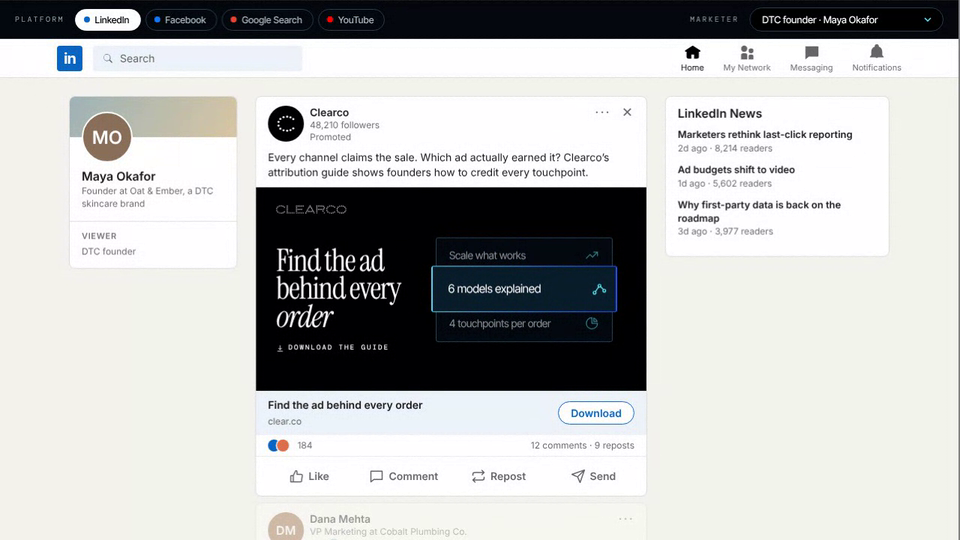
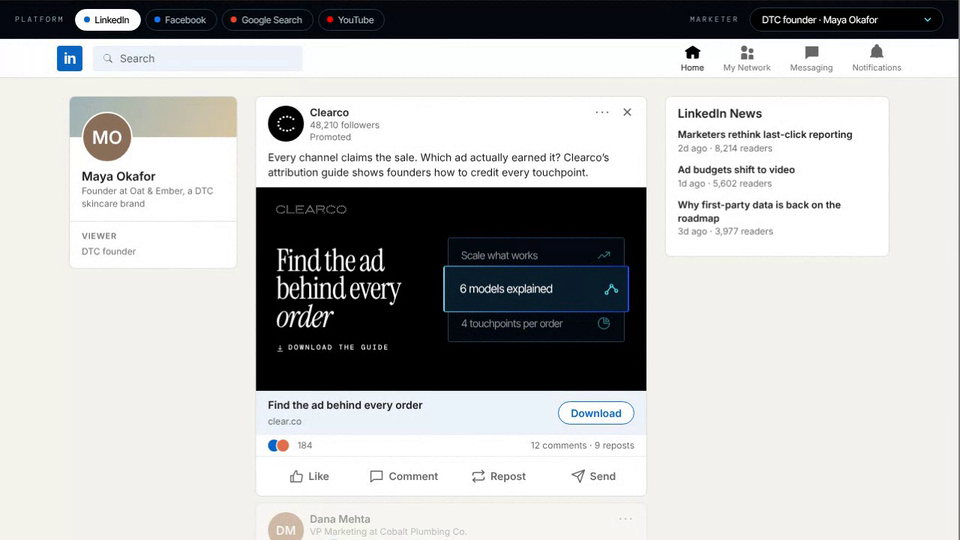
Paid Ad Pipeline: move the LinkedIn rolodex back to the right
Claude-Session: https://claude.ai/code/session_016rpguaETsCiVqR7f54g7FW

Changed region(s): [[0.4375, 0.4444, 0.5938, 0.5926], [0.4688, 0.4444, 0.6562, 0.6222]]

diff --git a/clearco-paid-ad-pipeline/index.html b/clearco-paid-ad-pipeline/index.html
@@ -56,7 +56,7 @@ nav.back span{color:#6e6e6e}nav.back b{font-weight:500;color:#fff;overflow:hidde
 .cr h4{font:400 8cqw/.9 var(--serif);letter-spacing:-.035em;margin:2.4cqw 0 3.4cqw;white-space:nowrap}
 .cr .go{align-self:flex-start;display:inline-flex;align-items:center;gap:1.1cqw;color:#fff;font:500 1.8cqw/1 var(--mono);letter-spacing:.2em;text-transform:uppercase;white-space:nowrap}
 .cr .go svg{width:2cqw;height:2cqw}
-.cr .stage{position:absolute;right:3cqw;top:0;width:50cqw;height:100%;container-type:inline-size}
+.cr .stage{position:absolute;right:0;top:0;width:50cqw;height:100%;container-type:inline-size}
 .cr .stage>*{pointer-events:none}
 /* the three cards as a rolodex: the middle one is the prominent one; each step the bottom card moves up to the middle, the middle to the top, and the top fades out and returns at the bottom. Only transform and opacity animate, so it stays smooth. */
 .cr .bl{position:absolute;left:-4cqw;right:9cqw;top:50%;height:40cqw;margin-top:-20cqw;display:flex;align-items:center;padding:0 17cqw 0 5cqw;color:#fff;opacity:0;transform:translateY(13cqw) scale(.96);transition:transform 1.2s cubic-bezier(.4,0,.2,1),opacity .6s ease .1s}
